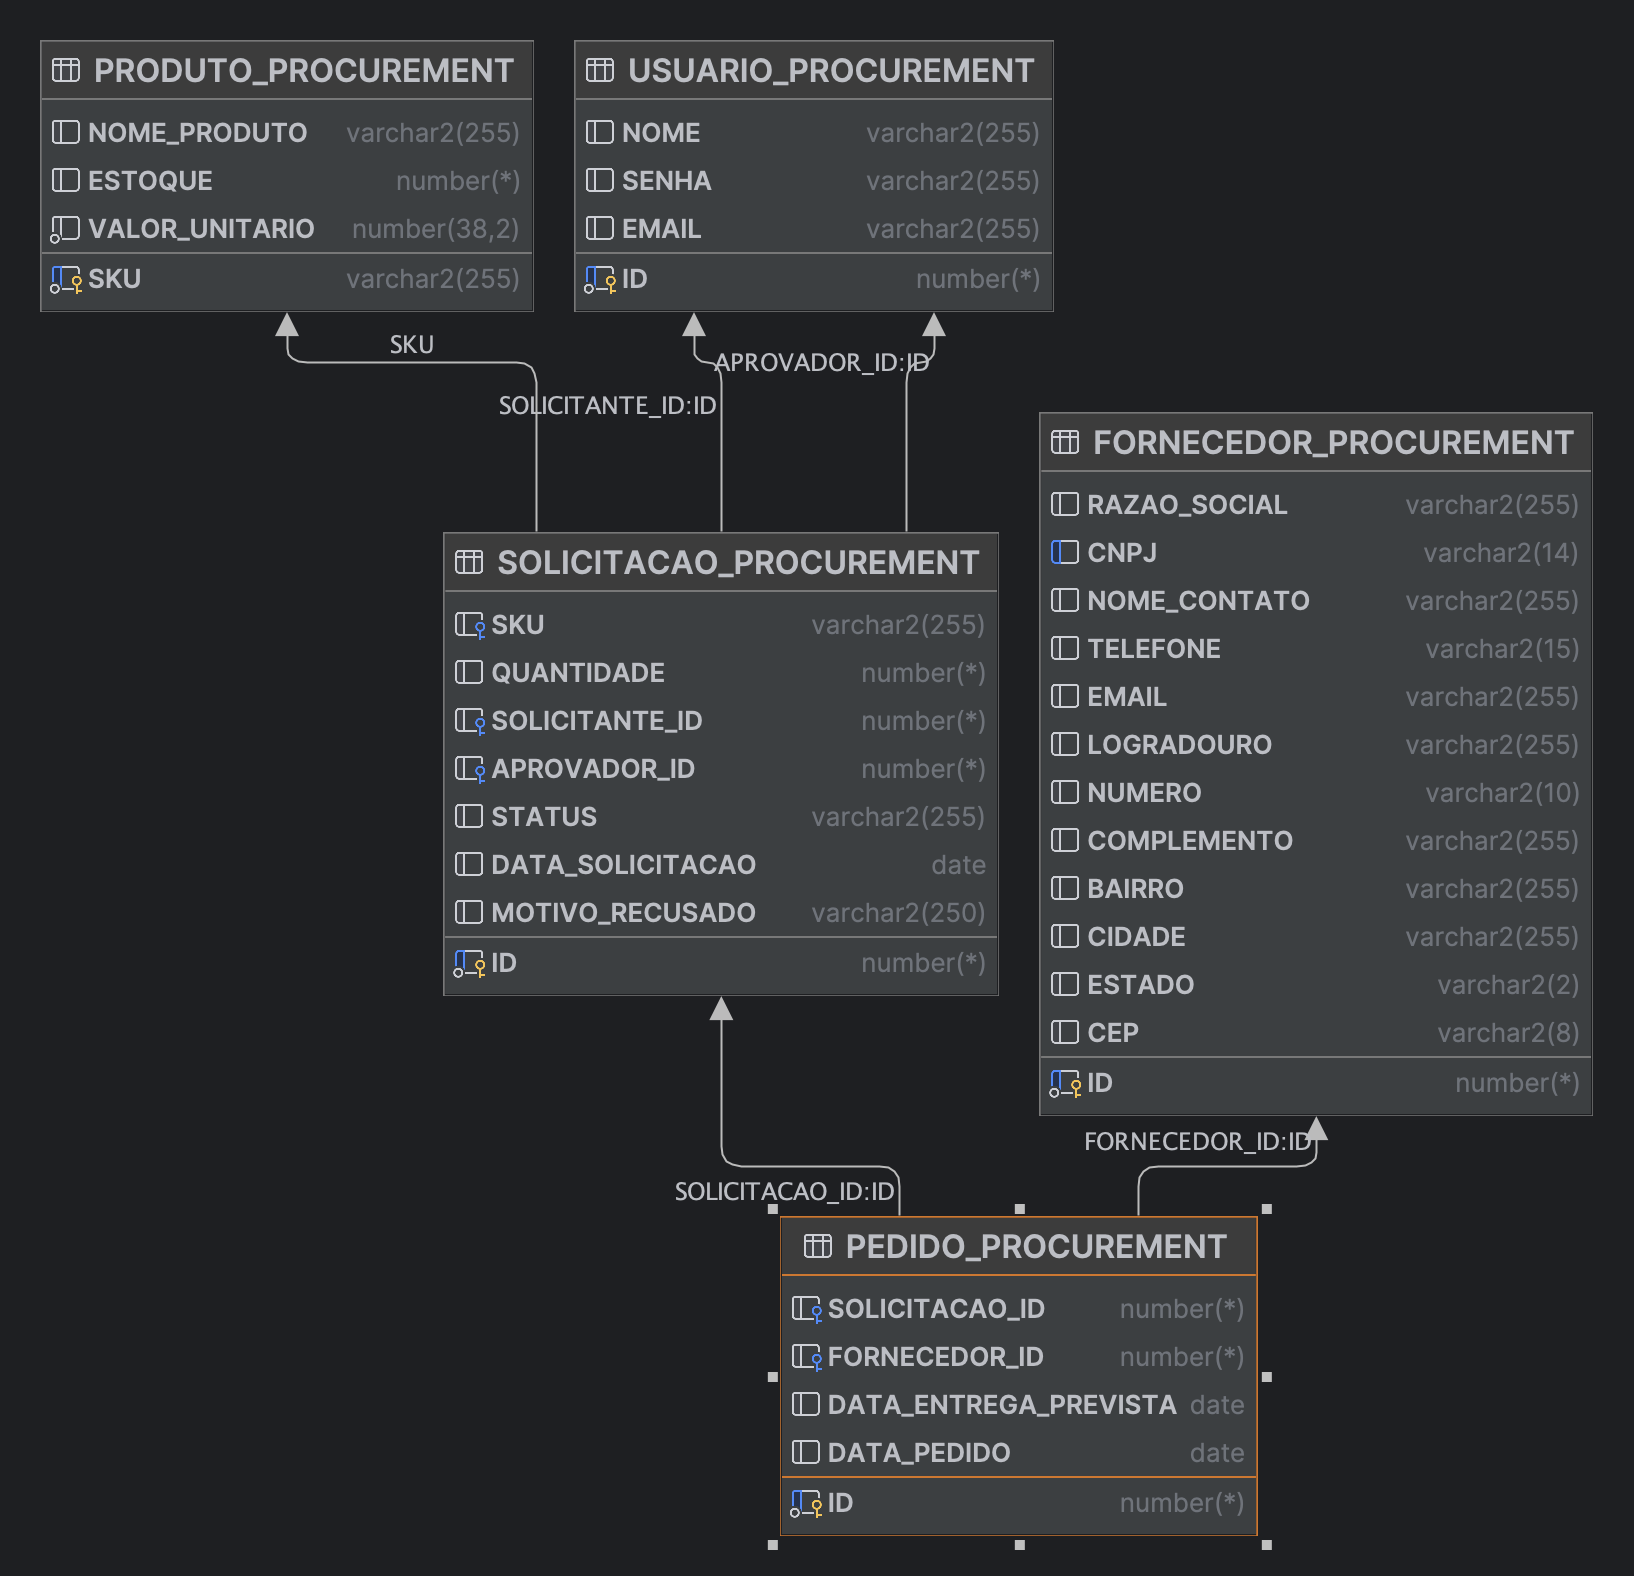
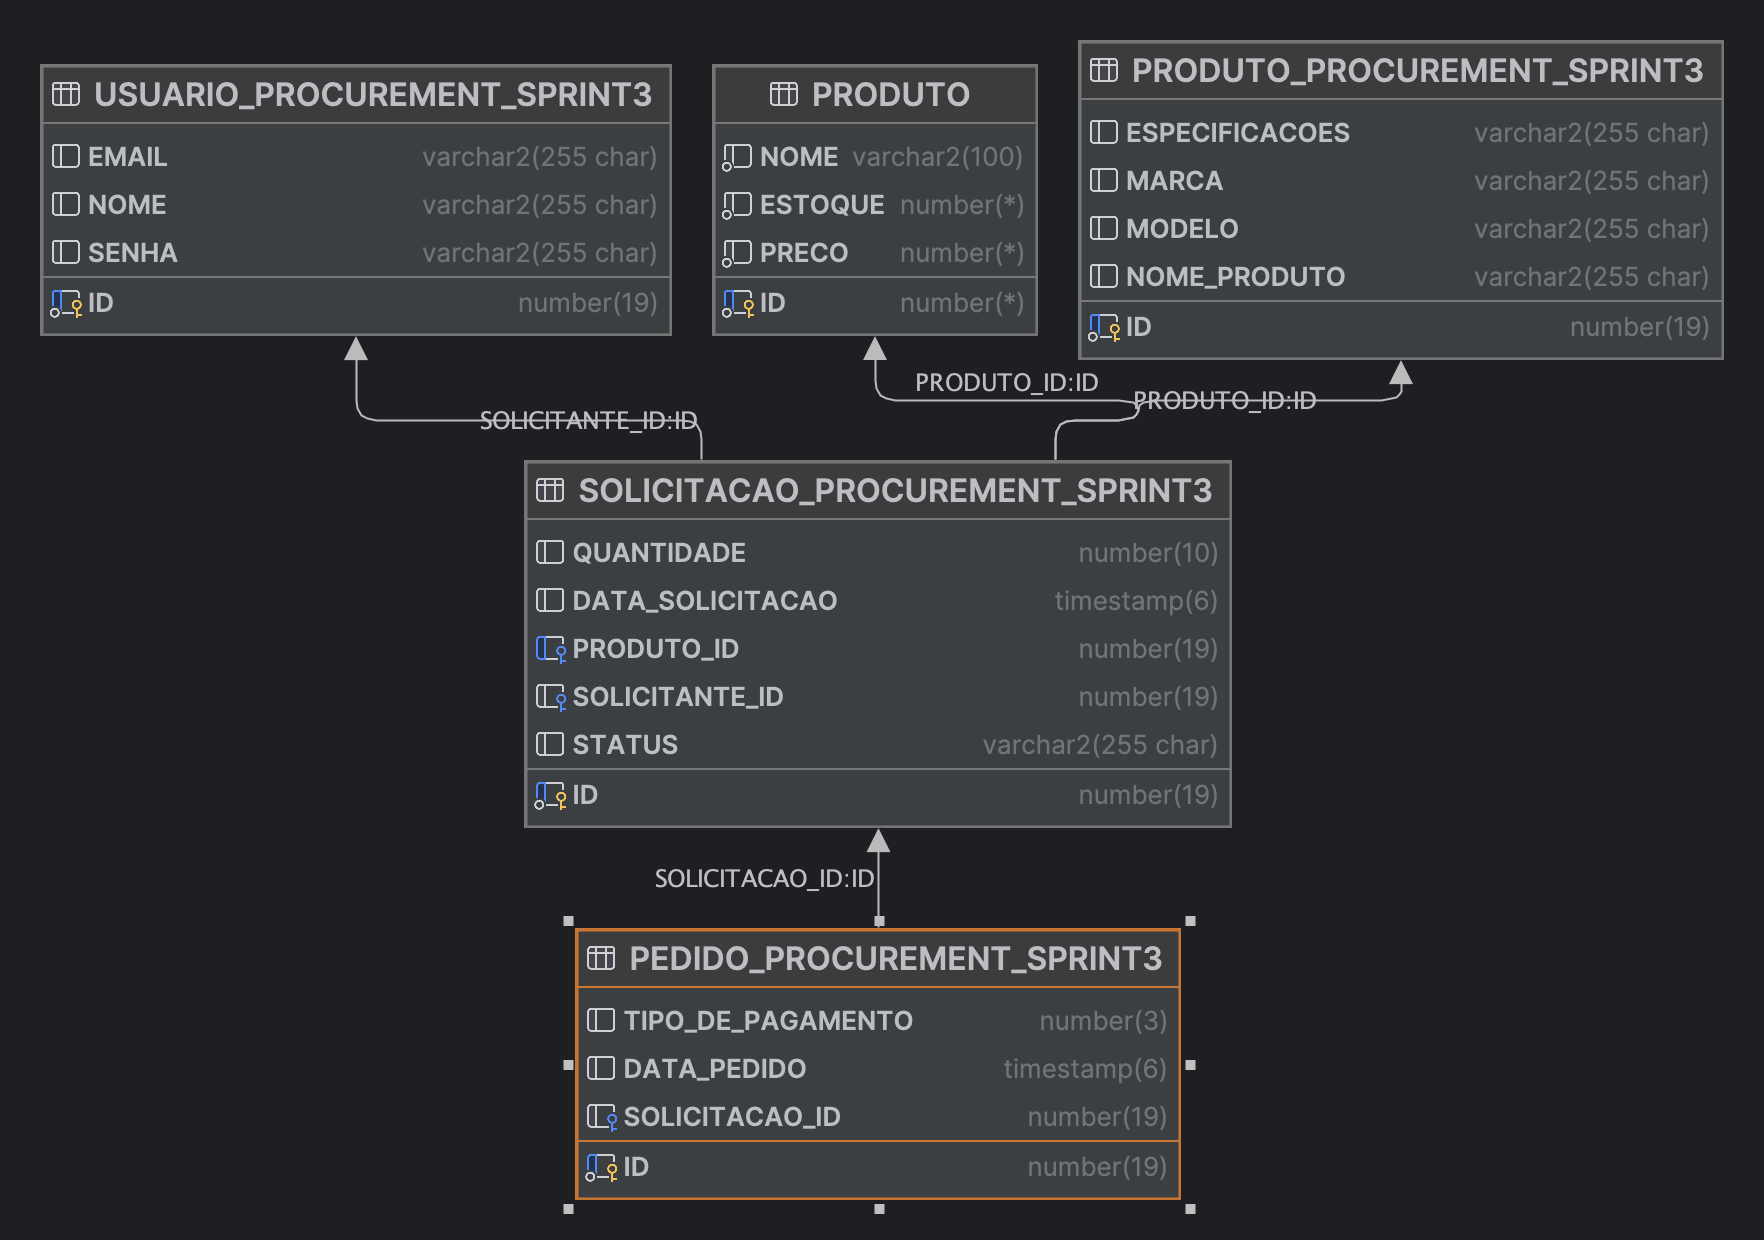
Swagger e mapa de entidades atualizados

diff --git a/src/main/java/br/com/challenge/procurement/config/SwaggerConfig.java b/src/main/java/br/com/challenge/procurement/config/SwaggerConfig.java
@@ -17,8 +17,8 @@ public class SwaggerConfig {
         Contact contact = new Contact();
         contact.setEmail("rm97373@fiap.com.br");
         contact.setName("Raquel");
-        Info info = new Info().title("Checkpoint 1 e 2")
+        Info info = new Info().title("Sprint3")
                 .version("0.1")
                 .contact(contact)
-                .description("Projeto referente a procurement.dawio");
+                .description("Projeto referente a procurement.drawio.dawio");
         return new OpenAPI().info(info).servers(List.of(devServer));  }}
